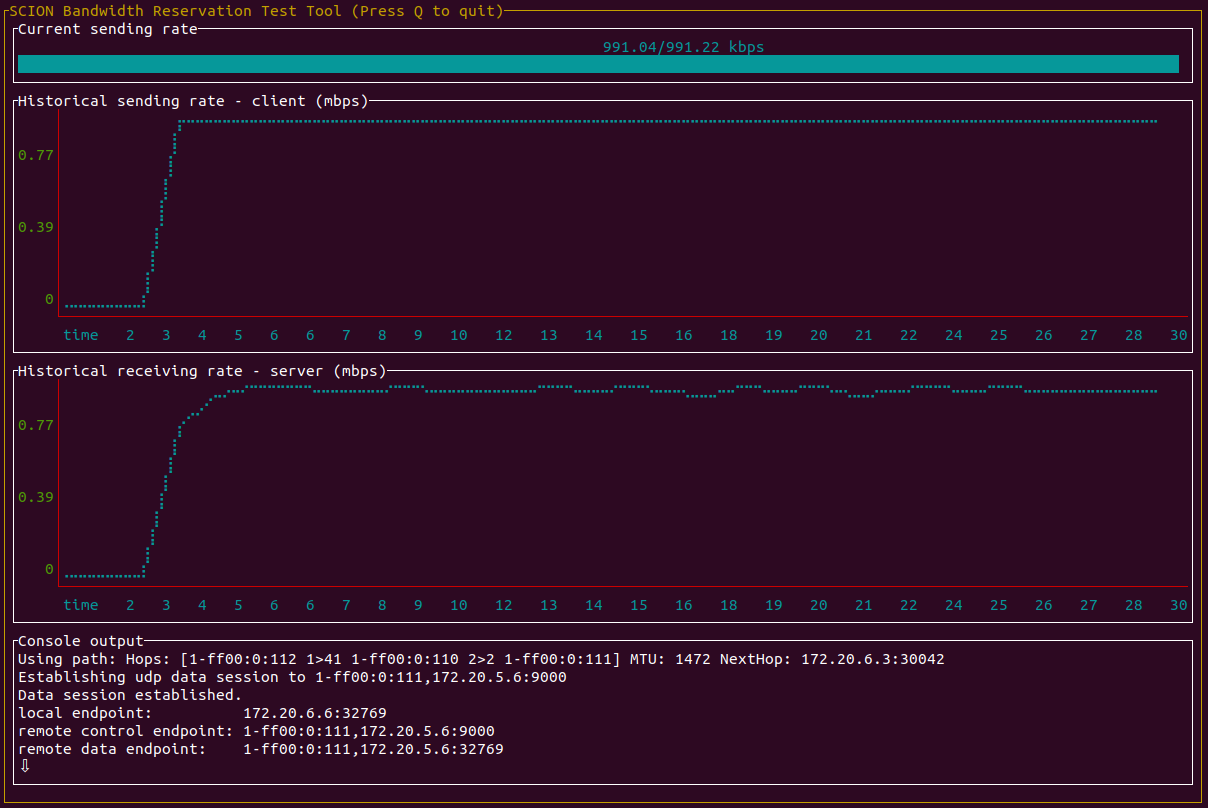
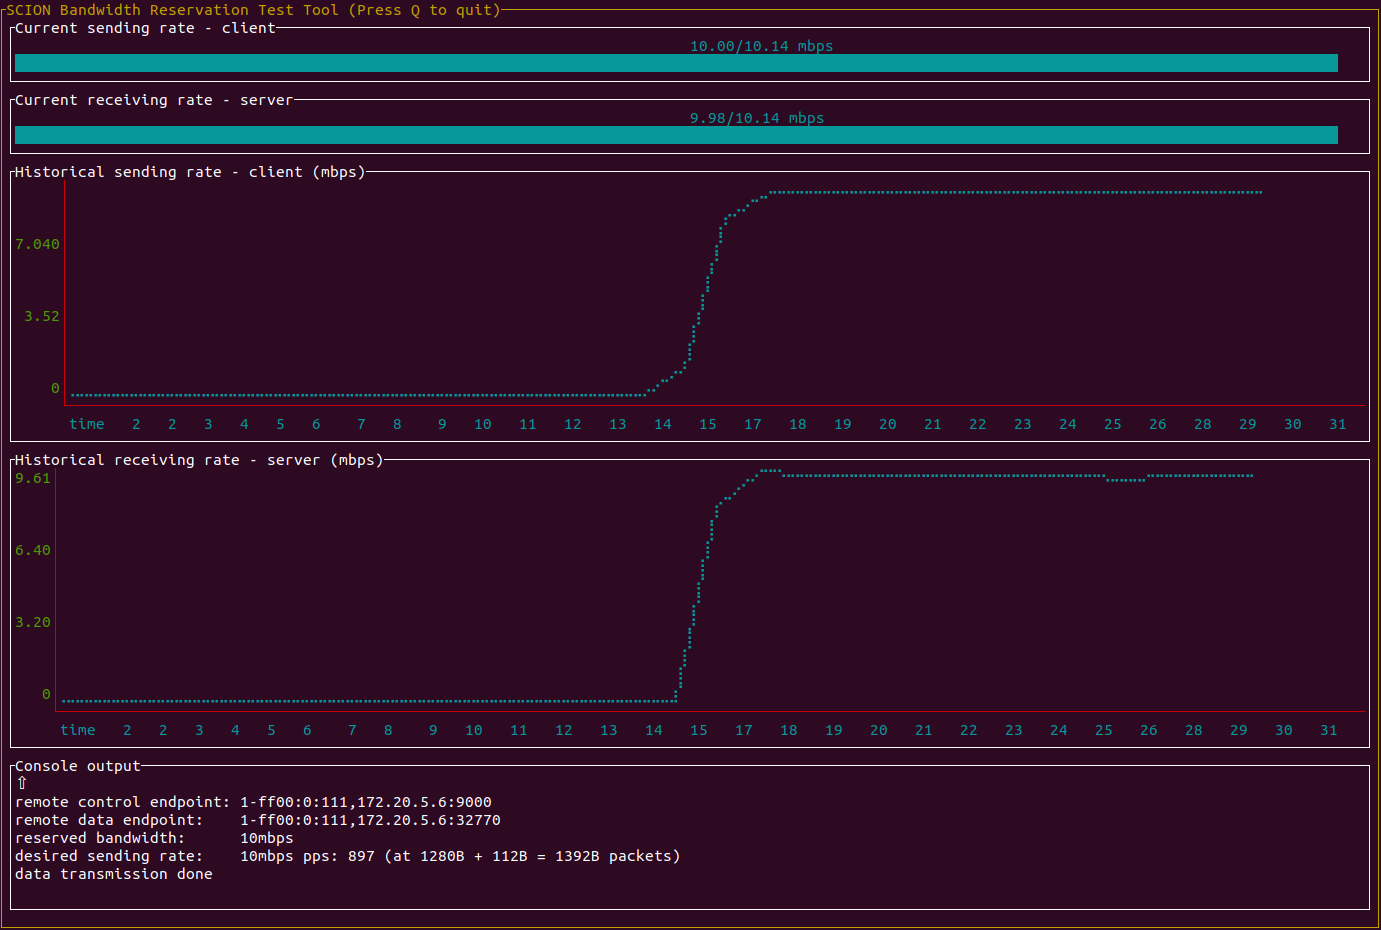
cmd/bwreserver: add gauge for server reported receiving rate (#5)
Add a gauge for server reported receiving rate.

Also mitigate a memory leak by sampling the sent bytes instead of
adding a data point per packet sent in the client time series.

Changed region(s): [[0.0, 0.0, 1.0, 1.0], [0.4901, 0.3713, 0.5207, 0.4022]]

diff --git a/cmd/bwreserver/client/view/view.go b/cmd/bwreserver/client/view/view.go
@@ -38,15 +38,21 @@ type View struct {
 	terminal  *tcell.Terminal
 	container *container.Container
 
-	gaugeText                *text.Text
-	sendingRateGauge         *gauge.Gauge
+	gaugeText        *text.Text
+	sendingRateGauge *gauge.Gauge
+
+	serverGaugeText        *text.Text
+	serverSendingRateGauge *gauge.Gauge
+
 	historicalSendRateClient *linechart.LineChart
 	historicalSendRateServer *linechart.LineChart
 	console                  *text.Text
 
 	mu sync.Mutex
 	// maxSendRate is the all-time max send rate
-	maxSendRate int
+	lastSendRate       int
+	serverLastSendRate int
+	maxSendRate        int
 }
 
 func New() (*View, error) {
@@ -81,6 +87,16 @@ func New() (*View, error) {
 	}
 	currentSendingRate.Absolute(0, 1)
 
+	serverCurrentSendingRate, err := gauge.New(
+		gauge.Height(1),
+		gauge.Color(cell.ColorCyan),
+		gauge.HideTextProgress(),
+	)
+	if err != nil {
+		return nil, err
+	}
+	serverCurrentSendingRate.Absolute(0, 1)
+
 	historicalSendingRateClient, err := linechart.New(
 		linechart.AxesCellOpts(cell.FgColor(cell.ColorRed)),
 		linechart.YLabelCellOpts(cell.FgColor(cell.ColorGreen)),
@@ -104,6 +120,11 @@ func New() (*View, error) {
 		return nil, err
 	}
 
+	serverGaugeText, err := text.New()
+	if err != nil {
+		return nil, err
+	}
+
 	console, err := text.New(text.RollContent(), text.WrapAtWords())
 	if err != nil {
 		return nil, err
@@ -115,22 +136,45 @@ func New() (*View, error) {
 		container.BorderTitle("SCION Bandwidth Reservation Test Tool (Press Q to quit)"),
 		container.SplitHorizontal(
 			container.Top(
-				container.Border(linestyle.Light),
-				container.BorderTitle("Current sending rate"),
 				container.SplitHorizontal(
 					container.Top(
-						container.SplitVertical(
-							container.Left(),
-							container.Right(
-								container.PlaceWidget(gaugeText),
+						container.Border(linestyle.Light),
+						container.BorderTitle("Current sending rate - client"),
+						container.SplitHorizontal(
+							container.Top(
+								container.SplitVertical(
+									container.Left(),
+									container.Right(
+										container.PlaceWidget(gaugeText),
+									),
+								),
 							),
+							container.Bottom(
+								// container.Border(linestyle.Light),
+								container.PlaceWidget(currentSendingRate),
+							),
+							container.SplitFixed(1),
 						),
 					),
 					container.Bottom(
-						// container.Border(linestyle.Light),
-						container.PlaceWidget(currentSendingRate),
+						container.Border(linestyle.Light),
+						container.BorderTitle("Current receiving rate - server"),
+						container.SplitHorizontal(
+							container.Top(
+								container.SplitVertical(
+									container.Left(),
+									container.Right(
+										container.PlaceWidget(serverGaugeText),
+									),
+								),
+							),
+							container.Bottom(
+								// container.Border(linestyle.Light),
+								container.PlaceWidget(serverCurrentSendingRate),
+							),
+							container.SplitFixed(1),
+						),
 					),
-					container.SplitFixed(1),
 				),
 			),
 			container.Bottom(
@@ -158,7 +202,7 @@ func New() (*View, error) {
 					container.SplitPercent(40),
 				),
 			),
-			container.SplitFixed(4),
+			container.SplitFixed(8),
 		),
 	)
 	if err != nil {
@@ -170,7 +214,9 @@ func New() (*View, error) {
 		container: c,
 
 		gaugeText:                gaugeText,
+		serverGaugeText:          serverGaugeText,
 		sendingRateGauge:         currentSendingRate,
+		serverSendingRateGauge:   serverCurrentSendingRate,
 		historicalSendRateClient: historicalSendingRateClient,
 		historicalSendRateServer: historicalSendingRateServer,
 		console:                  console,
@@ -191,7 +237,7 @@ func (v *View) Run(ctx context.Context) error {
 }
 
 // UpdateGauge reports the current sending rate (in bits per second). The
-// rendered value is relative to the max seen sending rate.
+// rendered value is relative to the max seen sending rate across all gauges.
 func (v *View) UpdateGauge(bps int) {
 	v.mu.Lock()
 	defer v.mu.Unlock()
@@ -199,9 +245,35 @@ func (v *View) UpdateGauge(bps int) {
 	if bps > v.maxSendRate {
 		v.maxSendRate = bps
 	}
-	v.sendingRateGauge.Absolute(bps, v.maxSendRate)
+	v.lastSendRate = bps
+	v.updateGaugesLocked()
+}
+
+// UpdateServerGauge reports the current receiving rate (in bits per second). The
+// rendered value is relative to the max seen sending/receiving rate across all gauges.
+func (v *View) UpdateServerGauge(bps int) {
+	v.mu.Lock()
+	defer v.mu.Unlock()
+
+	if bps > v.maxSendRate {
+		v.maxSendRate = bps
+	}
+	v.serverLastSendRate = bps
+	v.updateGaugesLocked()
+}
+
+func (v *View) updateGaugesLocked() {
+	v.sendingRateGauge.Absolute(v.lastSendRate, v.maxSendRate)
 	v.gaugeText.Write(
-		RenderBandwidth(bps, v.maxSendRate),
+		RenderBandwidth(v.lastSendRate, v.maxSendRate),
+		text.WriteReplace(),
+		text.WriteCellOpts(
+			cell.FgColor(cell.ColorCyan),
+		),
+	)
+	v.serverSendingRateGauge.Absolute(v.serverLastSendRate, v.maxSendRate)
+	v.serverGaugeText.Write(
+		RenderBandwidth(v.serverLastSendRate, v.maxSendRate),
 		text.WriteReplace(),
 		text.WriteCellOpts(
 			cell.FgColor(cell.ColorCyan),

diff --git a/cmd/bwreserver/client/client.go b/cmd/bwreserver/client/client.go
@@ -24,6 +24,7 @@ import (
 	"net/http"
 	"os"
 	"sync"
+	"sync/atomic"
 	"syscall"
 	"time"
 
@@ -228,6 +229,10 @@ type client struct {
 	clientSeriesBuilder *view.SeriesBuilder
 	tsServer            *telemetry.TimeSeries
 	serverSeriesBuilder *view.SeriesBuilder
+
+	// bytesSentReportClient contains the number of bytes sent, as reported by the client.
+	// Accessed with atomics.
+	bytesSentReportClient int64
 }
 
 func (c *client) init(ctx context.Context, sd string, localIP net.IP) error {
@@ -360,16 +365,17 @@ func (c *client) run(ctx context.Context) error {
 	c.println("remote data endpoint:   ", conn.RemoteAddr())
 
 	sender := &sender{
-		dataConn:    conn,
-		remote:      c.remote,
-		rate:        c.rate,
-		reservation: c.reservation,
-		payloadSize: c.payloadSize,
-		duration:    c.duration,
-		ratelimit:   !c.quic,
-		text:        c.text,
-		view:        c.view,
-		tsClient:    c.tsClient,
+		dataConn:              conn,
+		remote:                c.remote,
+		rate:                  c.rate,
+		reservation:           c.reservation,
+		payloadSize:           c.payloadSize,
+		duration:              c.duration,
+		ratelimit:             !c.quic,
+		text:                  c.text,
+		view:                  c.view,
+		tsClient:              c.tsClient,
+		bytesSentReportClient: &c.bytesSentReportClient,
 	}
 
 	fetchCtx, cancelFetching := context.WithCancel(ctx)
@@ -562,6 +568,12 @@ func Reserve(ctx context.Context, r Reservation) (net.Conn, func(), error) {
 }
 
 func (c *client) reportStats() {
+	// Also collect counters here, because it's simpler than doing it in a separate sampling
+	// goroutine.
+	clientBitsCounter := float64(atomic.LoadInt64(&c.bytesSentReportClient)) * 8
+
+	c.tsClient.Add(telemetry.Entry{Timestamp: time.Now(), Value: clientBitsCounter})
+
 	// Latency of 1 second (data is 1 second in the past) to improve the chance that we have
 	// readings available.
 	windowStart := time.Now().Add(-2 * time.Second)
@@ -582,7 +594,12 @@ func (c *client) reportStats() {
 		fmt.Printf("sending rate:   %.2f mbps (client)\n", toZero(clientRateMbps))
 		fmt.Printf("receiving rate: %.2f mbps (server)\n", toZero(serverRateMbps))
 	} else {
-		c.view.UpdateGauge(int(clientRate))
+		if !math.IsNaN(clientRate) {
+			c.view.UpdateGauge(int(clientRate))
+		}
+		if !math.IsNaN(serverRate) {
+			c.view.UpdateServerGauge(int(serverRate))
+		}
 		c.clientSeriesBuilder.Update(clientRateMbps)
 		c.serverSeriesBuilder.Update(serverRateMbps)
 	}
@@ -604,6 +621,9 @@ type sender struct {
 	view        *view.View
 
 	tsClient *telemetry.TimeSeries
+	// bytesSentReportClient contains the number of bytes sent, as reported by the client.
+	// Accessed with atomics. This points to the same counter in the client.
+	bytesSentReportClient *int64
 }
 
 func (s *sender) send(ctx context.Context) error {
@@ -620,7 +640,6 @@ func (s *sender) send(ctx context.Context) error {
 	pld := make([]byte, s.payloadSize)
 	rand.Read(pld)
 
-	bytesSent := 0
 	start := time.Now()
 	end := start.Add(s.duration)
 	infinite := !end.After(start)
@@ -653,9 +672,7 @@ func (s *sender) send(ctx context.Context) error {
 				return err
 			}
 			// We want to measure the throughput including the SCION header.
-			bytesSent += pktLen
-			// Ignore errors, we can silently discard them
-			s.tsClient.Add(telemetry.Entry{Timestamp: time.Now(), Value: float64(bytesSent * 8)})
+			atomic.AddInt64(s.bytesSentReportClient, int64(pktLen))
 		}
 	}
 }
